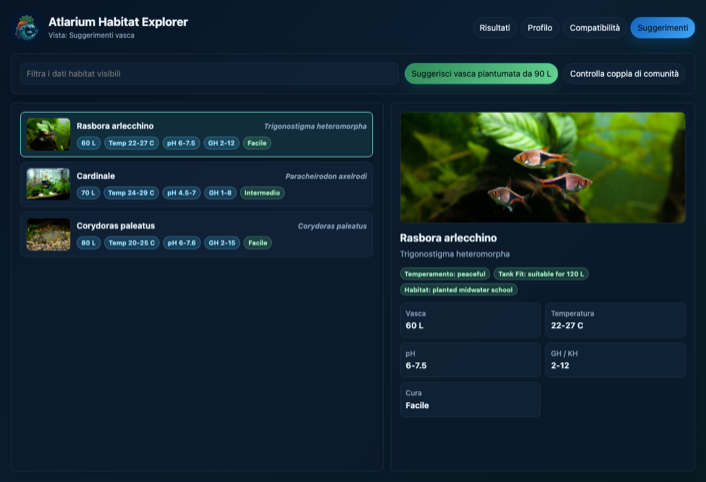
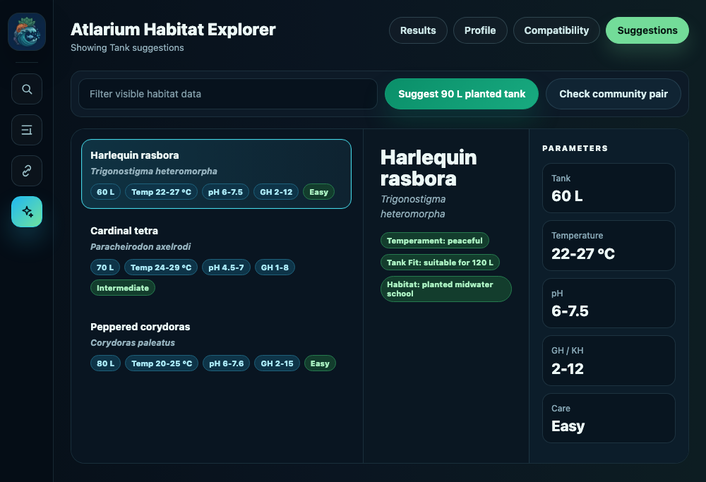
docs: refresh ChatGPT widget screenshots in English

diff --git a/examples/chatgpt-apps/README.md b/examples/chatgpt-apps/README.md
@@ -95,7 +95,8 @@ Re-run these checks on web and mobile after the 2026-07-02 remediation deploy:
 - `check_species_compatibility` for `Corydoras paleatus` and `Betta splendens`
   rendered the Compatibility panel as compatible with caution.
 - `suggest_species_for_tank` for a 120 L planted tank rendered the Suggestions
-  panel and ChatGPT answered in Italian when requested.
+  panel in English for directory screenshots; keep Italian as separate locale
+  QA only.
 - Private tank/journal write and admin/delete/private workspace injection prompts
   did not expose write tools.
 
@@ -118,10 +119,10 @@ livestock, equipment, water chemistry and local husbandry constraints.
   placeholder letters.
 - Habitat Explorer Profile view rendering a fish or plant profile with detail
   media and a technical inspector panel when available.
-- Habitat Explorer Compatibility view rendering warnings, recommended actions
-  and reviewed species with media thumbnails for a community pair.
-- Habitat Explorer Suggestions view rendering tank suggestions and readable
-  reason chips with media for a planted freshwater aquarium.
+- Habitat Explorer Compatibility view rendering English warnings, recommended
+  actions and reviewed species with media thumbnails for a community pair.
+- Habitat Explorer Suggestions view rendering English tank suggestions and
+  readable reason chips with media for a planted freshwater aquarium.
 - Habitat Explorer Diagnostics view rendering algae, disease, plant problem or
   medicine results from public tool output.
 - Habitat Explorer Product/Fertilization view rendering public equipment,

diff --git a/docs/publication-checklist.md b/docs/publication-checklist.md
@@ -236,9 +236,10 @@ and mobile after the 2026-07-02 remediation deploy:
   tank at 24 C and pH 6.8. Result: Compatibility widget rendered
   `compatible_with_caution`, warning text for Betta tankmate verification and
   recommended monitoring actions.
-- Prompt: Italian 120 L planted tank suggestion at 24 C and pH 6.8. Result:
-  ChatGPT answered in Italian and the Suggestions widget rendered real Atlarium
-  species suggestions.
+- Prompt: beginner-friendly 120 L planted tank suggestion at 24 C and pH 6.8
+  in English. Result: ChatGPT answered in English and the Suggestions widget
+  rendered real Atlarium species suggestions with English labels and advisory
+  copy.
 - Negative prompt: create a private tank record and journal entry. Result:
   ChatGPT reported that Atlarium MCP exposes only read/search/profile/
   compatibility tools and cannot create private tank or journal writes.